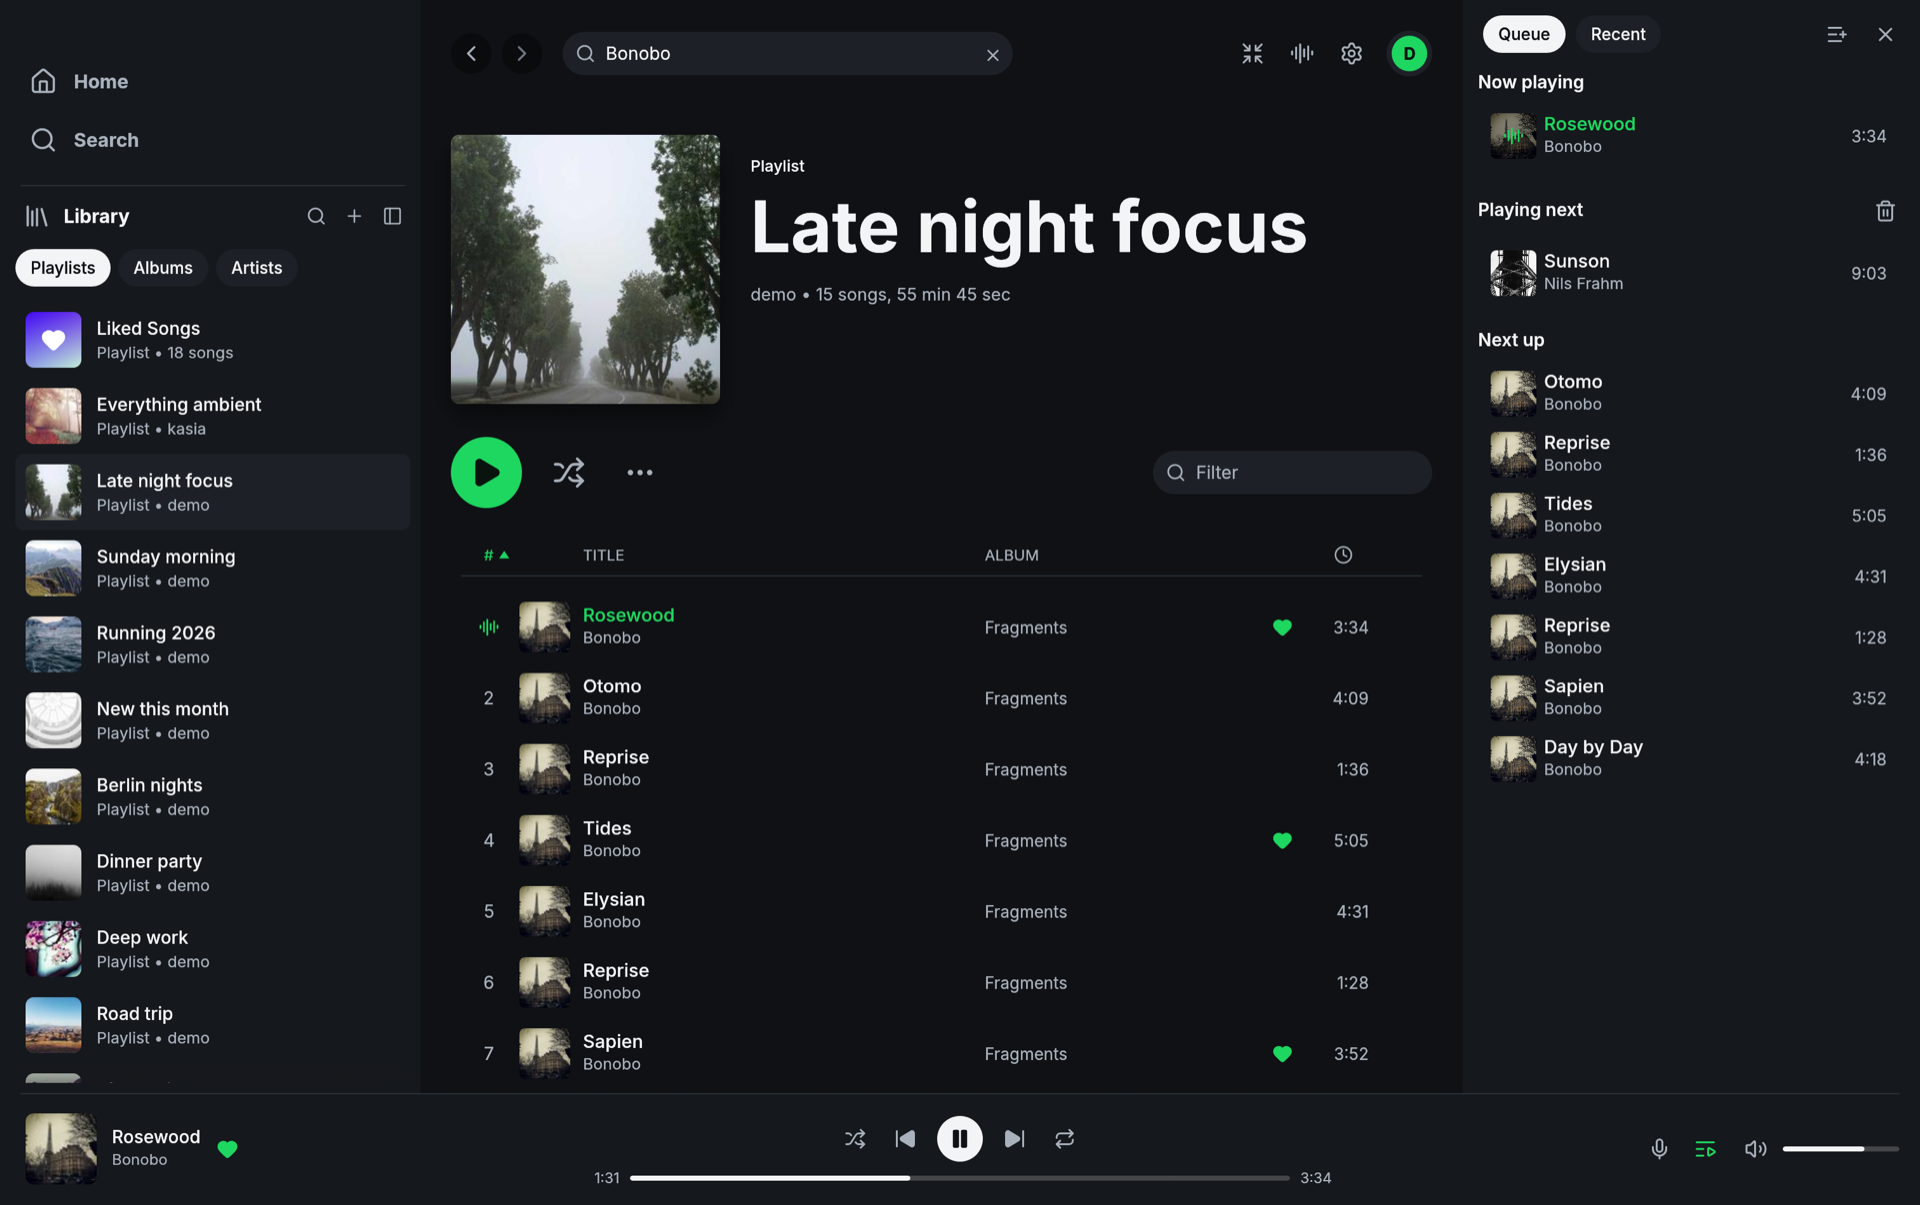
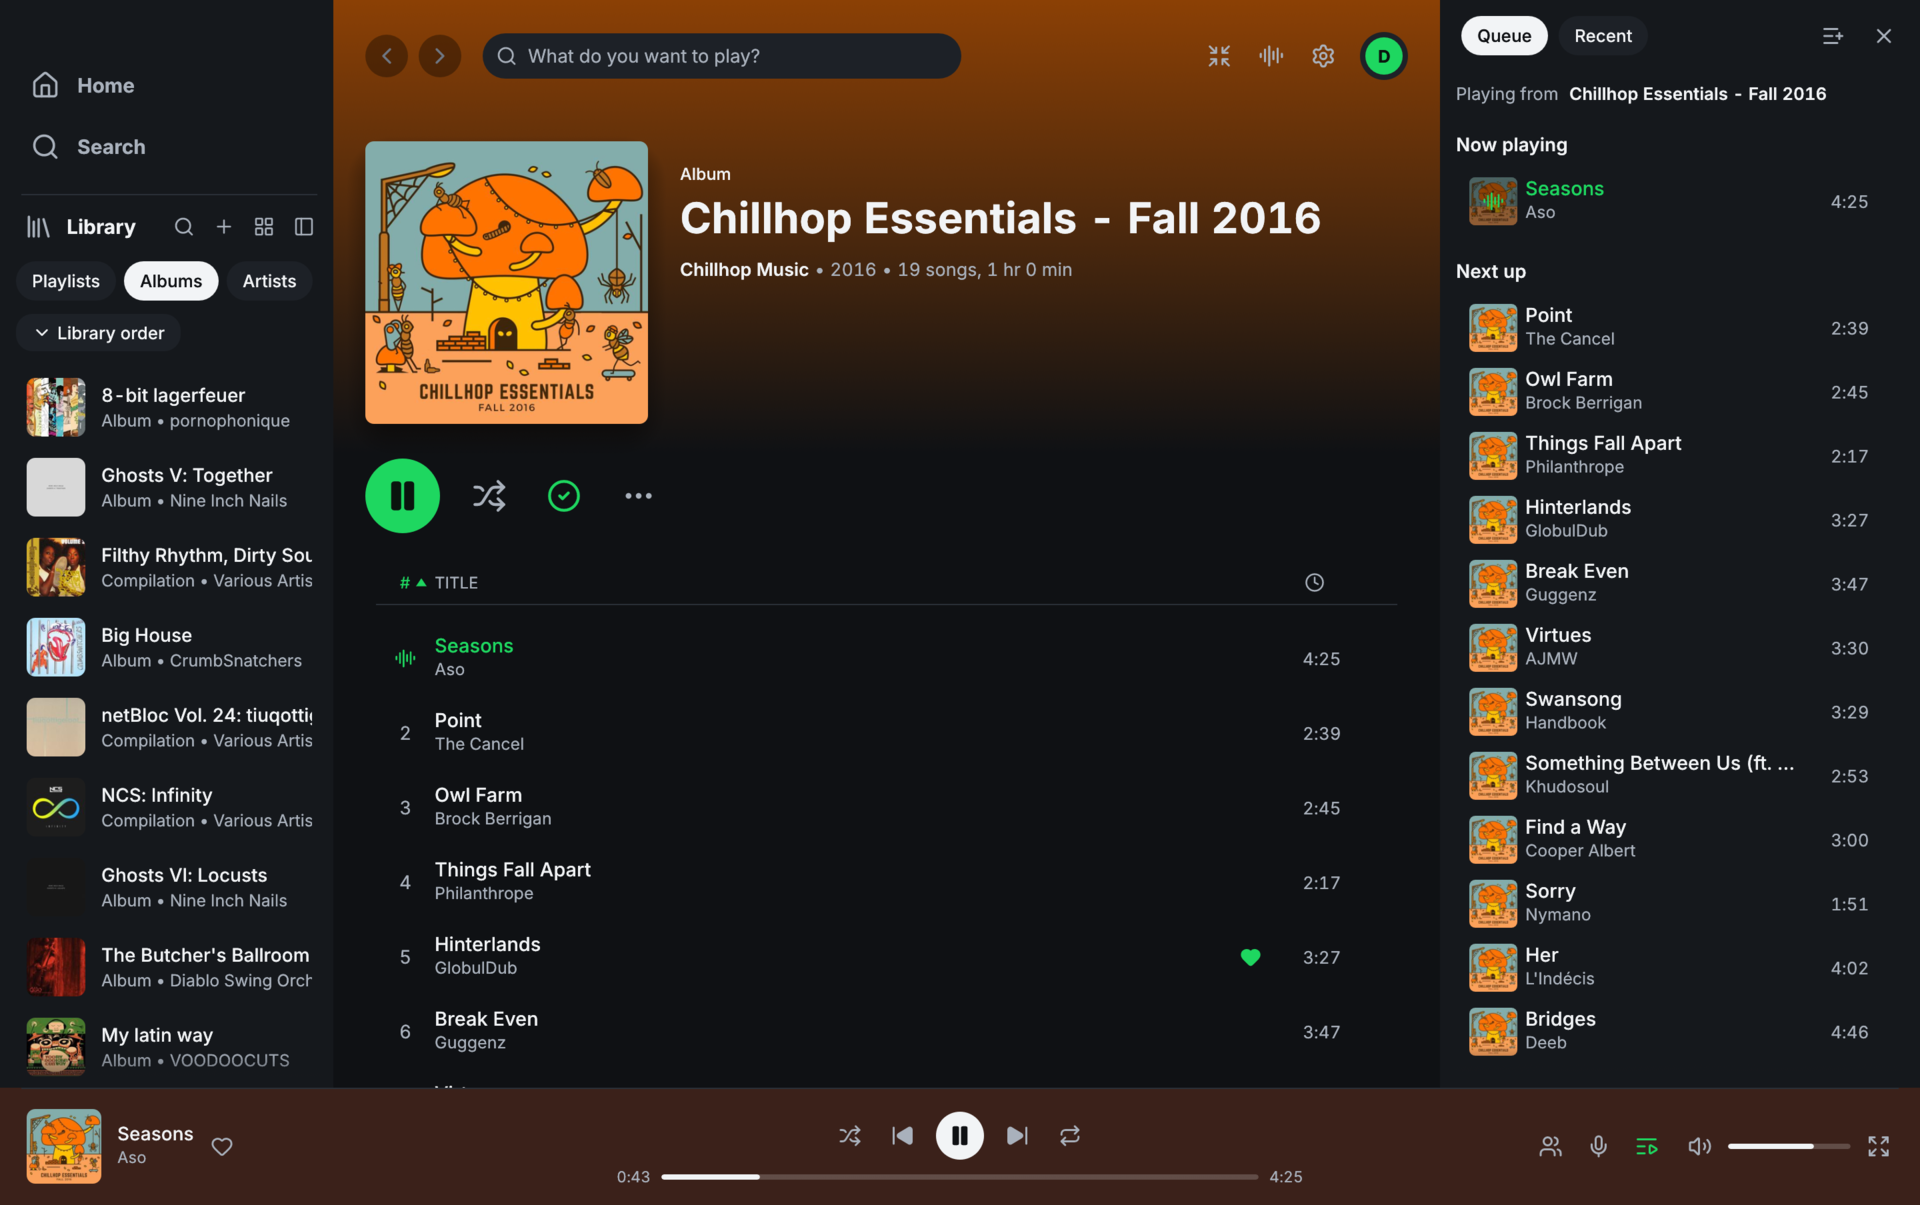
Retake the screenshot against the Navidrome demo server
The front screenshot showed the demo build's invented library. It now
shows real albums from demo.navidrome.org: an album page with the queue
open and the Library on starred albums.

diff --git a/README.md b/README.md
@@ -3,7 +3,7 @@
 > [!NOTE] 
 > **tl;dr:** fork of [Fastpotify](https://github.com/crmne/fastpotify) modified for self-hosted music servers. Should work with Subsonic/OpenSubsonic to Navidrome, Gonic, and compatible servers.
 
-![Fastsonic showing a playlist with the queue open](docs/screenshot.png)
+![Fastsonic playing an album from the Navidrome demo server, with the queue open](docs/screenshot.png)
 
 Tested with Navidrome and MacOS. It has no browser engine, telemetry, hosted backend - it's a thin client which streams the original audio file, and decodes it locally.
 

diff --git a/docs/_guide/what-is-fastsonic.md b/docs/_guide/what-is-fastsonic.md
@@ -6,7 +6,7 @@ the audio stream on this computer. It is written in Rust with
 [egui](https://github.com/emilk/egui), has no browser engine, and runs on
 Linux, macOS, and Windows.
 
-![Fastsonic showing a playlist with the queue open and a track playing](../screenshot.png)
+![Fastsonic playing an album from the Navidrome demo server, with the queue open](../screenshot.png)
 
 ## What it does
 
